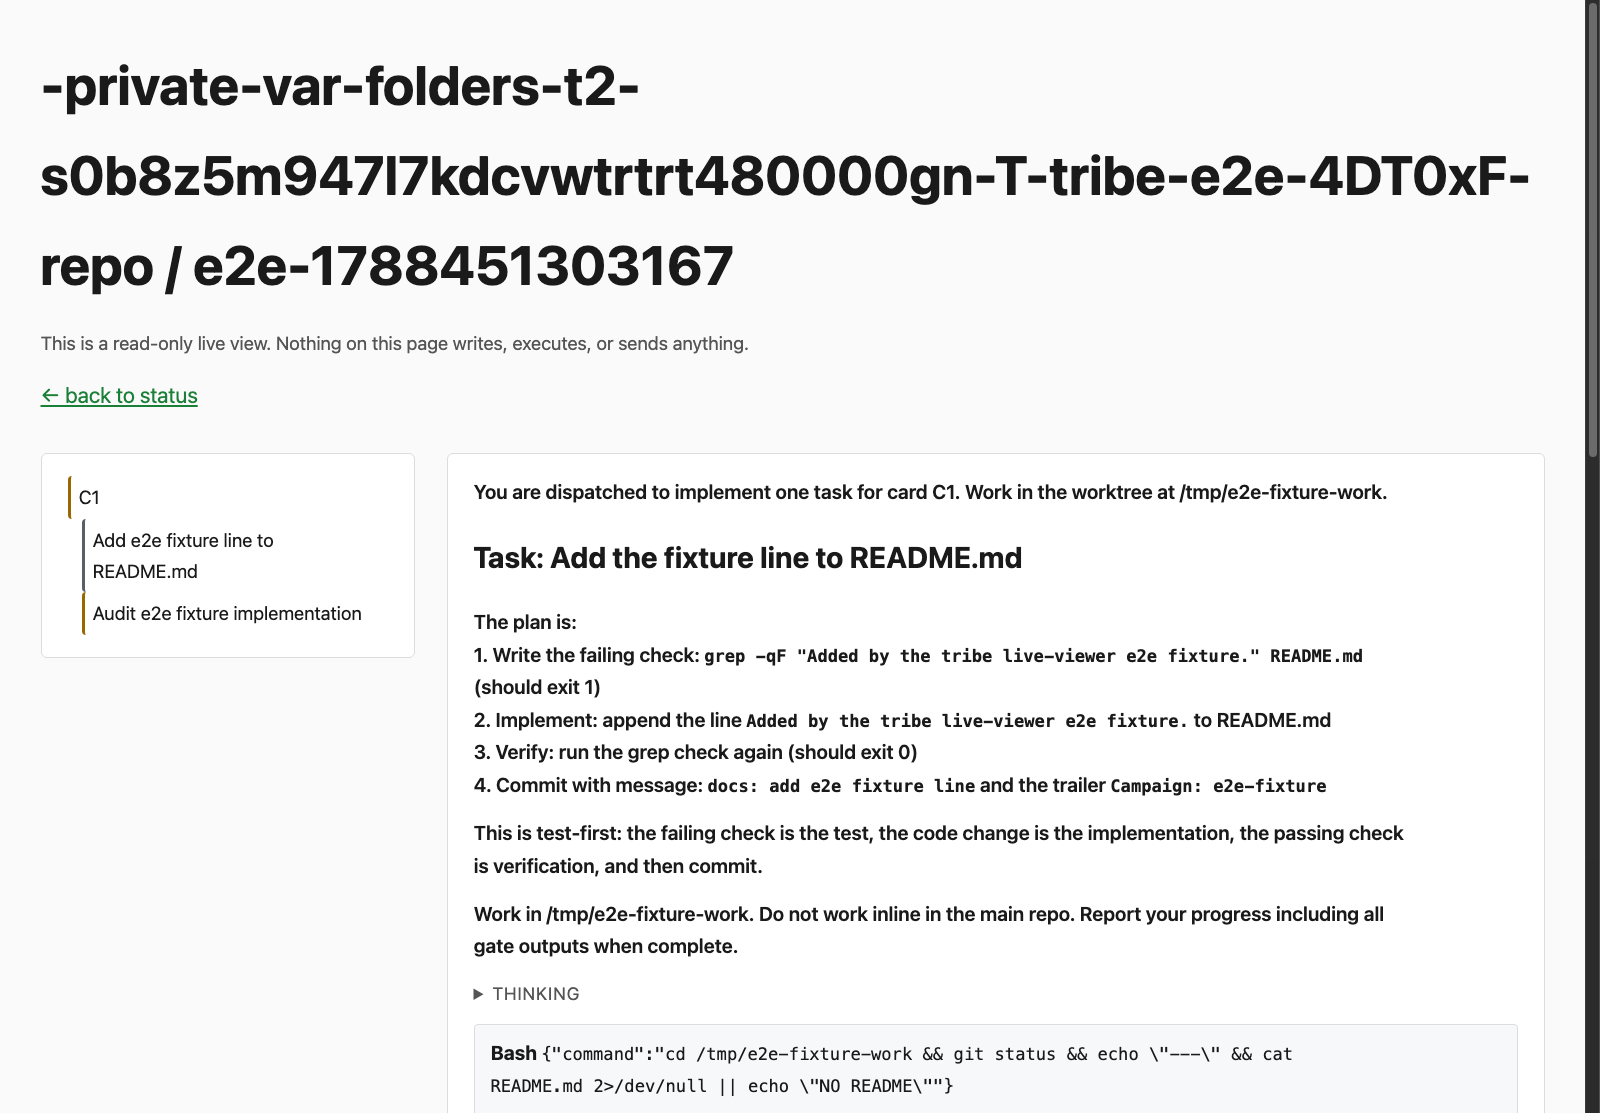
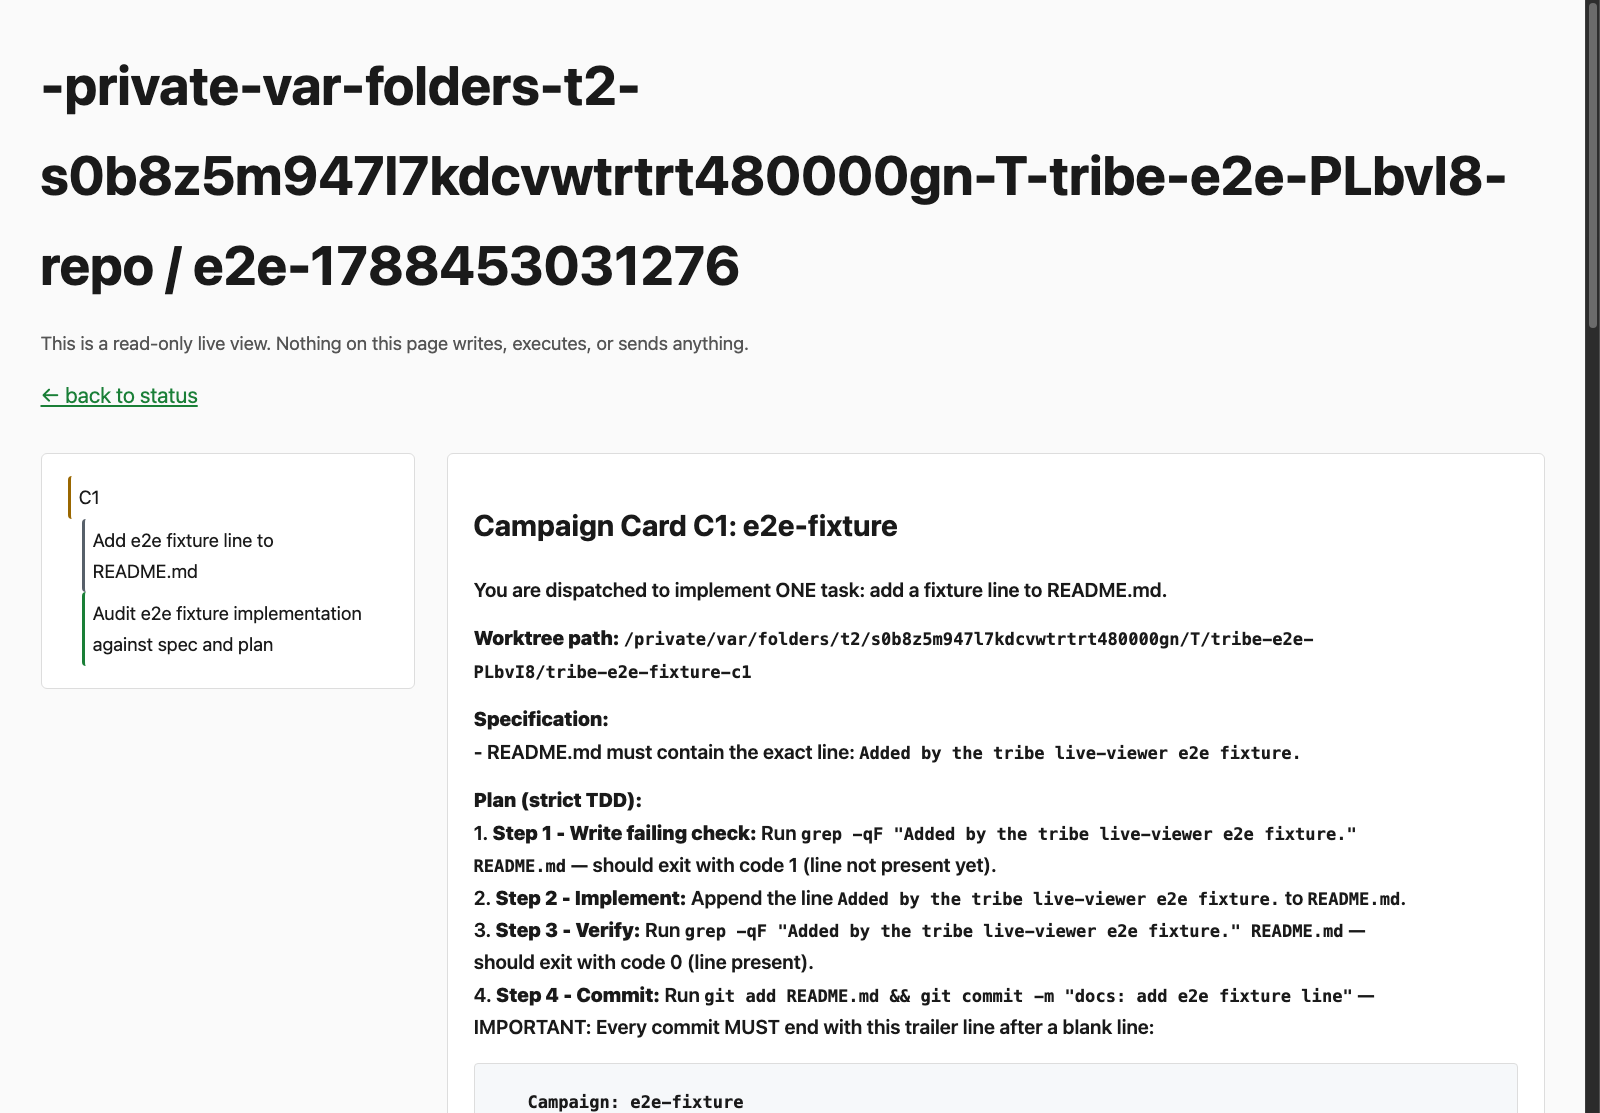
docs(evidence): re-capture the live-viewer evidence from the final tree
The F56 fix changes how the tailer advances its offset, so the shipped evidence is re-captured from the exact tree being merged rather than from one commit earlier. Real Haiku run: worst append latency 1648 ms of the 2000 ms budget, five timestamp-derived samples, parent session plus a tribe:hunter subagent both rendered as messages. commands.md now also states what the latency number measures and why it is an upper bound.

Tribe-Card: campaign-live-viewer
Tribe-Milestone: EVIDENCE-FINAL

diff --git a/docs/superpowers/evidence/2026-09-02-campaign-live-viewer/commands.md b/docs/superpowers/evidence/2026-09-02-campaign-live-viewer/commands.md
@@ -7,44 +7,54 @@ hand-authored).
 ## Fixed identifiers for this run
 
 - Throwaway target repo (deleted by `stop()` after this run — the path existed at run
-  time): `/var/folders/t2/s0b8z5m947l7kdcvwtrtrt480000gn/T/tribe-e2e-4DT0xF/repo`
-- Campaign home (kept — the Warchief re-inspects it): `/Users/hip/.tribe/-private-var-folders-t2-s0b8z5m947l7kdcvwtrtrt480000gn-T-tribe-e2e-4DT0xF-repo/campaigns/e2e-1788451303167`
-- Repo key (from `tribe-home.sh`): `-private-var-folders-t2-s0b8z5m947l7kdcvwtrtrt480000gn-T-tribe-e2e-4DT0xF-repo`
-- Campaign slug: `e2e-1788451303167`
+  time): `/var/folders/t2/s0b8z5m947l7kdcvwtrtrt480000gn/T/tribe-e2e-PLbvI8/repo`
+- Campaign home (kept — the Warchief re-inspects it): `/Users/hip/.tribe/-private-var-folders-t2-s0b8z5m947l7kdcvwtrtrt480000gn-T-tribe-e2e-PLbvI8-repo/campaigns/e2e-1788453031276`
+- Repo key (from `tribe-home.sh`): `-private-var-folders-t2-s0b8z5m947l7kdcvwtrtrt480000gn-T-tribe-e2e-PLbvI8-repo`
+- Campaign slug: `e2e-1788453031276`
 - Card id: `C1`
 - Viewer port: `4399` (never the default 4321)
 
 ## Runner's printed viewer URL line (G3 evidence)
 
 ```
-campaign viewer: http://127.0.0.1:4399/live?repo=-private-var-folders-t2-s0b8z5m947l7kdcvwtrtrt480000gn-T-tribe-e2e-4DT0xF-repo&slug=e2e-1788451303167 (read-only)
+campaign viewer: http://127.0.0.1:4399/live?repo=-private-var-folders-t2-s0b8z5m947l7kdcvwtrtrt480000gn-T-tribe-e2e-PLbvI8-repo&slug=e2e-1788453031276 (read-only)
 ```
 
 ## Commands
 
 ```sh
-$ git init -q  (cwd: /var/folders/t2/s0b8z5m947l7kdcvwtrtrt480000gn/T/tribe-e2e-4DT0xF/repo)
-$ git -c user.email=tribe-e2e@example.com -c "user.name=Tribe E2E Fixture" commit --allow-empty -q -m "initial commit"  (cwd: /var/folders/t2/s0b8z5m947l7kdcvwtrtrt480000gn/T/tribe-e2e-4DT0xF/repo)
-$ git add -A  (cwd: /var/folders/t2/s0b8z5m947l7kdcvwtrtrt480000gn/T/tribe-e2e-4DT0xF/repo)
-$ git -c user.email=tribe-e2e@example.com -c "user.name=Tribe E2E Fixture" commit -q -m "seed fixture card"  (cwd: /var/folders/t2/s0b8z5m947l7kdcvwtrtrt480000gn/T/tribe-e2e-4DT0xF/repo)
-$ git remote -v  (cwd: /var/folders/t2/s0b8z5m947l7kdcvwtrtrt480000gn/T/tribe-e2e-4DT0xF/repo)
-$ bash /Users/hip/repo/todd-skills-wt/campaign-live-viewer/plugins/tribe/scripts/tribe-home.sh /var/folders/t2/s0b8z5m947l7kdcvwtrtrt480000gn/T/tribe-e2e-4DT0xF/repo  (cwd: /var/folders/t2/s0b8z5m947l7kdcvwtrtrt480000gn/T/tribe-e2e-4DT0xF/repo)
-$ bun /Users/hip/repo/todd-skills-wt/campaign-live-viewer/plugins/tribe/scripts/runner/run.ts --repo /var/folders/t2/s0b8z5m947l7kdcvwtrtrt480000gn/T/tribe-e2e-4DT0xF/repo --model claude-haiku-4-5-20251001 --home /Users/hip/.tribe/-private-var-folders-t2-s0b8z5m947l7kdcvwtrtrt480000gn-T-tribe-e2e-4DT0xF-repo/campaigns/e2e-1788451303167 --dry-run
-$ bun /Users/hip/repo/todd-skills-wt/campaign-live-viewer/plugins/tribe/scripts/runner/run.ts --repo /var/folders/t2/s0b8z5m947l7kdcvwtrtrt480000gn/T/tribe-e2e-4DT0xF/repo --model claude-haiku-4-5-20251001 --home /Users/hip/.tribe/-private-var-folders-t2-s0b8z5m947l7kdcvwtrtrt480000gn-T-tribe-e2e-4DT0xF-repo/campaigns/e2e-1788451303167 --session-timeout 6m --viewer-port 4399  (detached, cwd: /var/folders/t2/s0b8z5m947l7kdcvwtrtrt480000gn/T/tribe-e2e-4DT0xF/repo)
-$ curl -N "http://127.0.0.1:4399/events?repo=-private-var-folders-t2-s0b8z5m947l7kdcvwtrtrt480000gn-T-tribe-e2e-4DT0xF-repo&slug=e2e-1788451303167&process=card:C1"  (SSE, watched via fetch()/ReadableStream, not EventSource; reconnects transparently on any transport hiccup — see the doc comment above measureAppendLatencies in harness.ts)
-$ "/Applications/Google Chrome.app/Contents/MacOS/Google Chrome" --headless=new --disable-gpu --screenshot=/Users/hip/repo/todd-skills-wt/campaign-live-viewer/docs/superpowers/evidence/2026-09-02-campaign-live-viewer/after-live-parent.png --window-size=1600,1200 --virtual-time-budget=8000 "http://127.0.0.1:4399/live?repo=-private-var-folders-t2-s0b8z5m947l7kdcvwtrtrt480000gn-T-tribe-e2e-4DT0xF-repo&slug=e2e-1788451303167&process=card:C1"
-$ "/Applications/Google Chrome.app/Contents/MacOS/Google Chrome" --headless=new --disable-gpu --screenshot=/Users/hip/repo/todd-skills-wt/campaign-live-viewer/docs/superpowers/evidence/2026-09-02-campaign-live-viewer/after-live-parent.png --window-size=1600,1200 --virtual-time-budget=8000 --user-data-dir=/var/folders/t2/s0b8z5m947l7kdcvwtrtrt480000gn/T/tribe-e2e-chrome-RJ7ErE --no-sandbox "http://127.0.0.1:4399/live?repo=-private-var-folders-t2-s0b8z5m947l7kdcvwtrtrt480000gn-T-tribe-e2e-4DT0xF-repo&slug=e2e-1788451303167&process=card:C1"
-$ "/Applications/Google Chrome.app/Contents/MacOS/Google Chrome" --headless=new --disable-gpu --user-data-dir=/var/folders/t2/s0b8z5m947l7kdcvwtrtrt480000gn/T/tribe-e2e-chrome-cdp-io4VA6 --no-sandbox --remote-debugging-port=9422 "--remote-allow-origins=*" --window-size=1600,1200  (CDP-driven: Page.navigate via /json/new, then Page.captureScreenshot, for http://127.0.0.1:4399/live?repo=-private-var-folders-t2-s0b8z5m947l7kdcvwtrtrt480000gn-T-tribe-e2e-4DT0xF-repo&slug=e2e-1788451303167&process=card:C1)
-$ "/Applications/Google Chrome.app/Contents/MacOS/Google Chrome" --headless=new --disable-gpu --screenshot=/Users/hip/repo/todd-skills-wt/campaign-live-viewer/docs/superpowers/evidence/2026-09-02-campaign-live-viewer/after-live-subagent.png --window-size=1600,1200 --virtual-time-budget=8000 "http://127.0.0.1:4399/live?repo=-private-var-folders-t2-s0b8z5m947l7kdcvwtrtrt480000gn-T-tribe-e2e-4DT0xF-repo&slug=e2e-1788451303167&process=agent:C1:a130e0d5d862ee2c1"
-$ "/Applications/Google Chrome.app/Contents/MacOS/Google Chrome" --headless=new --disable-gpu --screenshot=/Users/hip/repo/todd-skills-wt/campaign-live-viewer/docs/superpowers/evidence/2026-09-02-campaign-live-viewer/after-live-subagent.png --window-size=1600,1200 --virtual-time-budget=8000 --user-data-dir=/var/folders/t2/s0b8z5m947l7kdcvwtrtrt480000gn/T/tribe-e2e-chrome-1YuoeE --no-sandbox "http://127.0.0.1:4399/live?repo=-private-var-folders-t2-s0b8z5m947l7kdcvwtrtrt480000gn-T-tribe-e2e-4DT0xF-repo&slug=e2e-1788451303167&process=agent:C1:a130e0d5d862ee2c1"
-$ "/Applications/Google Chrome.app/Contents/MacOS/Google Chrome" --headless=new --disable-gpu --user-data-dir=/var/folders/t2/s0b8z5m947l7kdcvwtrtrt480000gn/T/tribe-e2e-chrome-cdp-Dg64sr --no-sandbox --remote-debugging-port=9422 "--remote-allow-origins=*" --window-size=1600,1200  (CDP-driven: Page.navigate via /json/new, then Page.captureScreenshot, for http://127.0.0.1:4399/live?repo=-private-var-folders-t2-s0b8z5m947l7kdcvwtrtrt480000gn-T-tribe-e2e-4DT0xF-repo&slug=e2e-1788451303167&process=agent:C1:a130e0d5d862ee2c1)
+$ git init -q  (cwd: /var/folders/t2/s0b8z5m947l7kdcvwtrtrt480000gn/T/tribe-e2e-PLbvI8/repo)
+$ git -c user.email=tribe-e2e@example.com -c "user.name=Tribe E2E Fixture" commit --allow-empty -q -m "initial commit"  (cwd: /var/folders/t2/s0b8z5m947l7kdcvwtrtrt480000gn/T/tribe-e2e-PLbvI8/repo)
+$ git add -A  (cwd: /var/folders/t2/s0b8z5m947l7kdcvwtrtrt480000gn/T/tribe-e2e-PLbvI8/repo)
+$ git -c user.email=tribe-e2e@example.com -c "user.name=Tribe E2E Fixture" commit -q -m "seed fixture card"  (cwd: /var/folders/t2/s0b8z5m947l7kdcvwtrtrt480000gn/T/tribe-e2e-PLbvI8/repo)
+$ git remote -v  (cwd: /var/folders/t2/s0b8z5m947l7kdcvwtrtrt480000gn/T/tribe-e2e-PLbvI8/repo)
+$ bash /Users/hip/repo/todd-skills-wt/campaign-live-viewer/plugins/tribe/scripts/tribe-home.sh /var/folders/t2/s0b8z5m947l7kdcvwtrtrt480000gn/T/tribe-e2e-PLbvI8/repo  (cwd: /var/folders/t2/s0b8z5m947l7kdcvwtrtrt480000gn/T/tribe-e2e-PLbvI8/repo)
+$ bun /Users/hip/repo/todd-skills-wt/campaign-live-viewer/plugins/tribe/scripts/runner/run.ts --repo /var/folders/t2/s0b8z5m947l7kdcvwtrtrt480000gn/T/tribe-e2e-PLbvI8/repo --model claude-haiku-4-5-20251001 --home /Users/hip/.tribe/-private-var-folders-t2-s0b8z5m947l7kdcvwtrtrt480000gn-T-tribe-e2e-PLbvI8-repo/campaigns/e2e-1788453031276 --dry-run
+$ bun /Users/hip/repo/todd-skills-wt/campaign-live-viewer/plugins/tribe/scripts/runner/run.ts --repo /var/folders/t2/s0b8z5m947l7kdcvwtrtrt480000gn/T/tribe-e2e-PLbvI8/repo --model claude-haiku-4-5-20251001 --home /Users/hip/.tribe/-private-var-folders-t2-s0b8z5m947l7kdcvwtrtrt480000gn-T-tribe-e2e-PLbvI8-repo/campaigns/e2e-1788453031276 --session-timeout 6m --viewer-port 4399  (detached, cwd: /var/folders/t2/s0b8z5m947l7kdcvwtrtrt480000gn/T/tribe-e2e-PLbvI8/repo)
+$ curl -N "http://127.0.0.1:4399/events?repo=-private-var-folders-t2-s0b8z5m947l7kdcvwtrtrt480000gn-T-tribe-e2e-PLbvI8-repo&slug=e2e-1788453031276&process=card:C1"  (SSE, watched via fetch()/ReadableStream, not EventSource; reconnects transparently on any transport hiccup — see the doc comment above measureAppendLatencies in harness.ts)
+$ "/Applications/Google Chrome.app/Contents/MacOS/Google Chrome" --headless=new --disable-gpu --screenshot=/Users/hip/repo/todd-skills-wt/campaign-live-viewer/docs/superpowers/evidence/2026-09-02-campaign-live-viewer/after-live-parent.png --window-size=1600,1200 --virtual-time-budget=8000 "http://127.0.0.1:4399/live?repo=-private-var-folders-t2-s0b8z5m947l7kdcvwtrtrt480000gn-T-tribe-e2e-PLbvI8-repo&slug=e2e-1788453031276&process=card:C1"
+$ "/Applications/Google Chrome.app/Contents/MacOS/Google Chrome" --headless=new --disable-gpu --screenshot=/Users/hip/repo/todd-skills-wt/campaign-live-viewer/docs/superpowers/evidence/2026-09-02-campaign-live-viewer/after-live-parent.png --window-size=1600,1200 --virtual-time-budget=8000 --user-data-dir=/var/folders/t2/s0b8z5m947l7kdcvwtrtrt480000gn/T/tribe-e2e-chrome-1mx1yK --no-sandbox "http://127.0.0.1:4399/live?repo=-private-var-folders-t2-s0b8z5m947l7kdcvwtrtrt480000gn-T-tribe-e2e-PLbvI8-repo&slug=e2e-1788453031276&process=card:C1"
+$ "/Applications/Google Chrome.app/Contents/MacOS/Google Chrome" --headless=new --disable-gpu --user-data-dir=/var/folders/t2/s0b8z5m947l7kdcvwtrtrt480000gn/T/tribe-e2e-chrome-cdp-XTreec --no-sandbox --remote-debugging-port=9422 "--remote-allow-origins=*" --window-size=1600,1200  (CDP-driven: Page.navigate via /json/new, then Page.captureScreenshot, for http://127.0.0.1:4399/live?repo=-private-var-folders-t2-s0b8z5m947l7kdcvwtrtrt480000gn-T-tribe-e2e-PLbvI8-repo&slug=e2e-1788453031276&process=card:C1)
+$ "/Applications/Google Chrome.app/Contents/MacOS/Google Chrome" --headless=new --disable-gpu --screenshot=/Users/hip/repo/todd-skills-wt/campaign-live-viewer/docs/superpowers/evidence/2026-09-02-campaign-live-viewer/after-live-subagent.png --window-size=1600,1200 --virtual-time-budget=8000 "http://127.0.0.1:4399/live?repo=-private-var-folders-t2-s0b8z5m947l7kdcvwtrtrt480000gn-T-tribe-e2e-PLbvI8-repo&slug=e2e-1788453031276&process=agent:C1:ae7defa1c41124240"
+$ "/Applications/Google Chrome.app/Contents/MacOS/Google Chrome" --headless=new --disable-gpu --screenshot=/Users/hip/repo/todd-skills-wt/campaign-live-viewer/docs/superpowers/evidence/2026-09-02-campaign-live-viewer/after-live-subagent.png --window-size=1600,1200 --virtual-time-budget=8000 --user-data-dir=/var/folders/t2/s0b8z5m947l7kdcvwtrtrt480000gn/T/tribe-e2e-chrome-CfqYxi --no-sandbox "http://127.0.0.1:4399/live?repo=-private-var-folders-t2-s0b8z5m947l7kdcvwtrtrt480000gn-T-tribe-e2e-PLbvI8-repo&slug=e2e-1788453031276&process=agent:C1:ae7defa1c41124240"
+$ "/Applications/Google Chrome.app/Contents/MacOS/Google Chrome" --headless=new --disable-gpu --user-data-dir=/var/folders/t2/s0b8z5m947l7kdcvwtrtrt480000gn/T/tribe-e2e-chrome-cdp-h6PUz0 --no-sandbox --remote-debugging-port=9422 "--remote-allow-origins=*" --window-size=1600,1200  (CDP-driven: Page.navigate via /json/new, then Page.captureScreenshot, for http://127.0.0.1:4399/live?repo=-private-var-folders-t2-s0b8z5m947l7kdcvwtrtrt480000gn-T-tribe-e2e-PLbvI8-repo&slug=e2e-1788453031276&process=agent:C1:ae7defa1c41124240)
 ```
+
+## What the latency number measures
+
+`latency.json`'s samples are `SSE-frame-arrival - Date.parse(event.timestamp)`, one sample per
+event carried by an `append` frame, where `timestamp` is the transcript record's own timestamp as
+Claude Code wrote it. That is deliberately CONSERVATIVE: it starts the clock when the record was
+stamped, which is at or before the moment its bytes hit disk, so the number is an **upper bound**
+on the disk-to-browser delay the card's 2-second budget is about. `sampleMethods` records, per
+sample, which signal produced it (`timestamp`, or `mtime-fallback` for an event with no timestamp
+of its own). Nothing is ever clamped, floored, or discarded to make a budget pass.
 
 ## Before capture (the Warchief's, not this harness')
 
 `before-status-page.png` is the OLD status page - the surface this card replaces - rendered
-against a campaign home produced by this same e2e harness, so before and after show the same
-kind of data. Captured from a detached worktree at `master` `9b1b502`; the viewer package is
+against a campaign home produced by this same e2e harness, so before and after show the same kind
+of data. Captured from a detached worktree at `master` `9b1b502`; the viewer package is
 byte-identical between the card's base `5e8c095` and `9b1b502`
 (`git diff --stat 5e8c095 9b1b502 -- plugins/tribe/scripts/viewer/` is empty), so this is the
 pre-card surface. The campaign home was copied into an isolated tribe-root so the page renders
